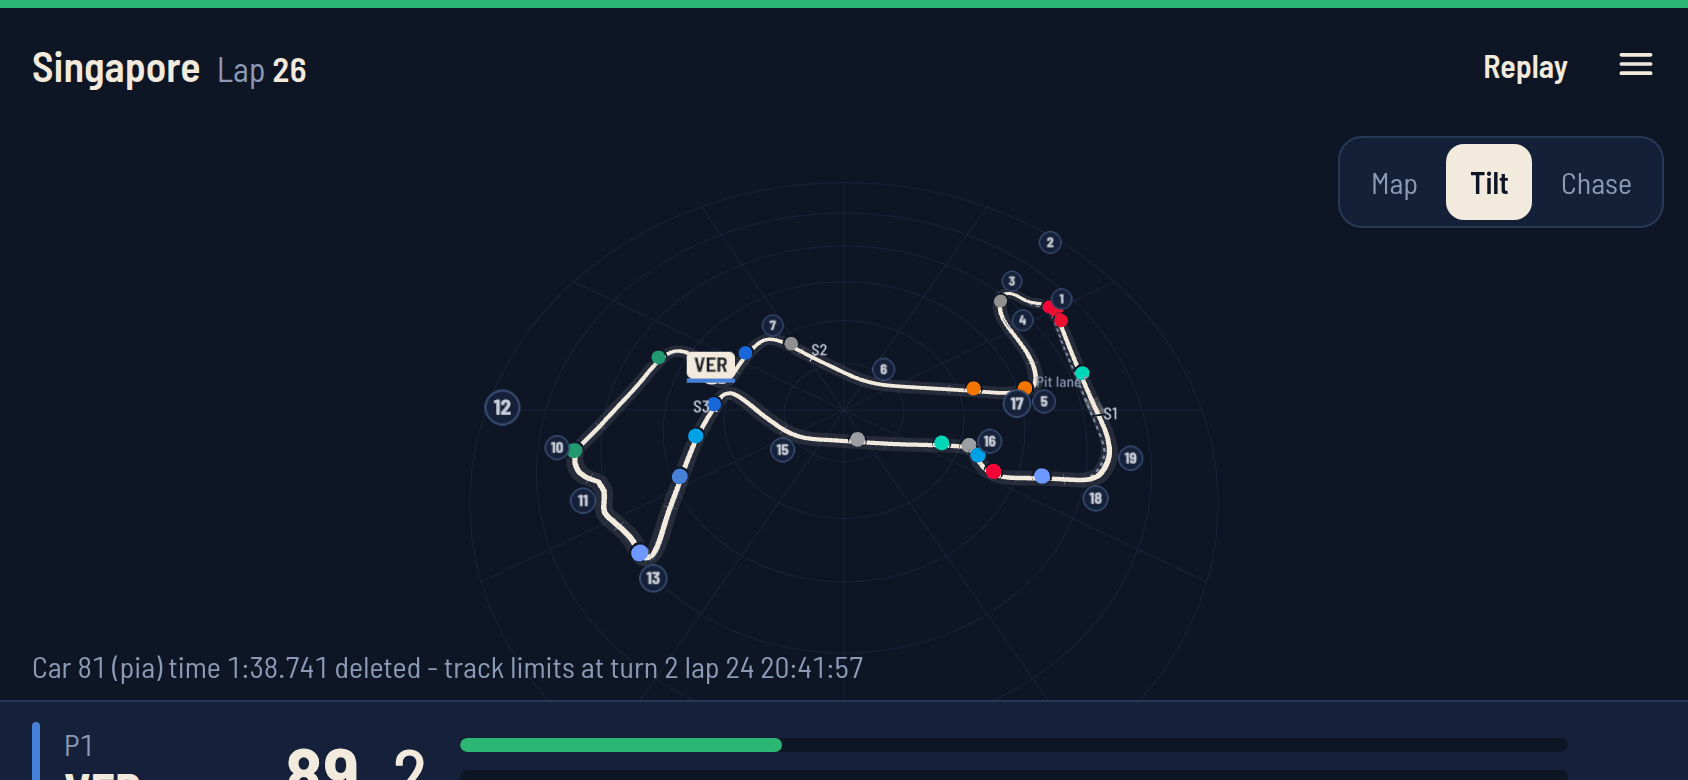
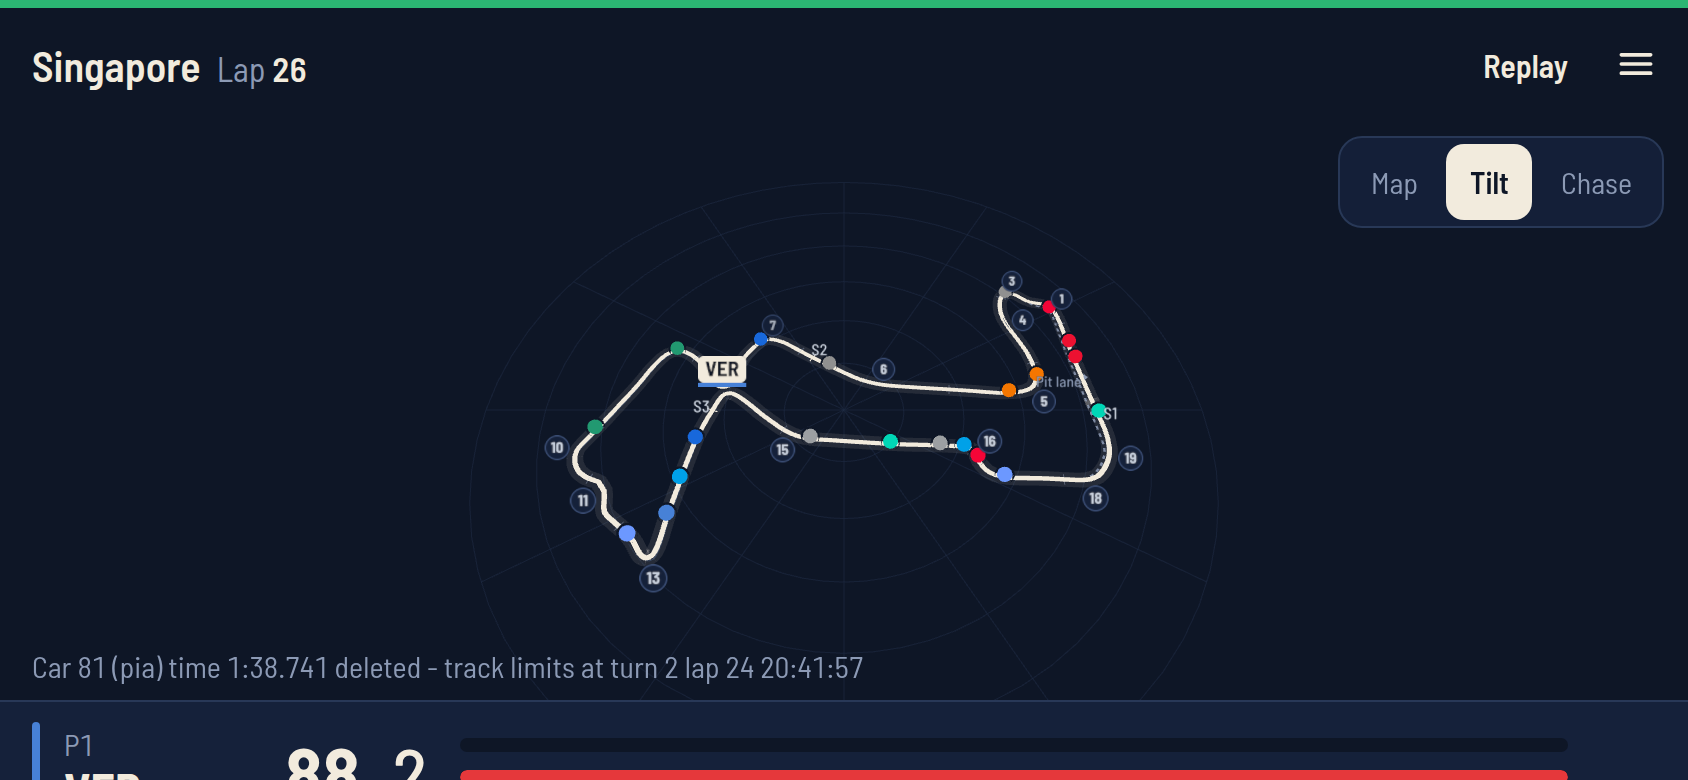
Never move a turn badge: show it on its corner, or not at all
Turn 12 was showing up in an odd spot. Its index was right — 69 units off the
circuit file's own coordinate on a 14,391-unit circuit, in line with its
neighbours — so it was the drawing. Measured at phone size, badge 12's apex
projected to (67, 205) and it was drawn at (24, 144): 61px adrift, nearer turn
10's corner than its own. Badge 2 was pushed 87px and rendered at y=-2, off
the top of the canvas.

The earlier fix stopped badges dodging car labels but left them dodging each
other, and Singapore's hairpin crowds four corners into very little screen.
Capping the shift does not rescue it: two badges only separate once one has
moved its whole height clear of the other, so any shift large enough to work
is already large enough to look detached. A unit test for a capped version
made that plain.

So badges no longer move at all. A badge is drawn exactly on its corner or
dropped, and where several crowd together the topmost wins. Car labels and
the camera group are fixed furniture it gives way to, never the reverse. Every
visible badge is now 0.00px from its own apex, in both orientations.

Fewer show at the default view — 13 to 16 of Singapore's 19 — and that is the
trade being made: a number you can trust, or more numbers you cannot. Zooming
in restores them, 18 of 19 by a modest pinch, because the decision is made
from what is actually on screen.

Also dropped the hysteresis margin from 6px to 2px. It was sized for badges
[…]

diff --git a/apps/web/src/scene/Scene.ts b/apps/web/src/scene/Scene.ts
@@ -23,7 +23,13 @@ import {
   buildYellowOverlays,
   type BadgeSprite,
 } from './detail.js';
-import { labelledDrivers, resolveCollisions, type LabelBox, type Obstacle } from './labels.js';
+import {
+  labelledDrivers,
+  visibleBadges,
+  resolveCollisions,
+  type LabelBox,
+  type Obstacle,
+} from './labels.js';
 import {
   GLOW_HALF_WIDTH,
   PX,
@@ -47,8 +53,14 @@ const BADGE_KEY = -1000;
 /** How quickly a turn badge fades back in once a car label has passed. */
 const BADGE_FADE_PER_S = 6;
 
-/** How far a hidden badge must be clear before it returns, in pixels. */
-const BADGE_UNBLOCK_PAD = 6;
+/**
+ * How far a hidden badge must be clear before it returns, in pixels.
+ *
+ * Small, because the dwell below does most of the steadying. A wide margin
+ * here keeps badges away long after the car has gone, and since they no
+ * longer move aside, one kept out is one not shown at all.
+ */
+const BADGE_UNBLOCK_PAD = 2;
 
 /** How quickly a car label slides to the position the resolver chose. */
 const LABEL_EASE_PER_S = 10;
@@ -56,10 +68,6 @@ const LABEL_EASE_PER_S = 10;
 /** How long a badge must stay clear before it starts coming back, in ms. */
 const BADGE_RETURN_MS = 400;
 
-/** Whether two screen rectangles meet. */
-function overlaps(a: Obstacle, b: Obstacle): boolean {
-  return a.right > b.left && a.left < b.right && a.bottom > b.top && a.top < b.bottom;
-}
 
 /** How the camera sits for each preset, as a direction and a distance factor. */
 const PRESETS: Record<CameraPreset, { dir: THREE.Vector3; fit: number }> = {
@@ -522,32 +530,31 @@ export class Scene {
         priority: 3,
       });
     }
-    const badgeOffsets = resolveCollisions(this.labelBoxes, 2, obstacles);
-    const placed = new Map(this.labelBoxes.map((b) => [b.n, b]));
+    // Badges are never moved, only kept or dropped: one names the corner it
+    // sits beside, so shifting it moves the answer. Car labels and the camera
+    // group are fixed here — a badge gives way to both, never the reverse.
+    //
+    // Hysteresis: a hidden badge is measured a little larger, so it has to be
+    // clear by a margin before it returns and a car label sliding along its
+    // edge cannot toggle it frame by frame.
+    const padded = this.labelBoxes.map((box) => {
+      const b = this.badges[BADGE_KEY - box.n];
+      if (!b || b.fade > 0.02) return box;
+      return { ...box, width: box.width + BADGE_UNBLOCK_PAD * 2, height: box.height + BADGE_UNBLOCK_PAD * 2 };
+    });
+    const shown = visibleBadges(padded, [...labelBoxes, ...obstacles]);
 
-    for (const [n, dyPx] of badgeOffsets) {
-      const b = this.badges[BADGE_KEY - n];
-      const box = placed.get(n);
-      if (!b || !box) continue;
-      b.sprite.position.copy(b.base).setY(b.base.y + this.worldLiftForScreenOffset(b.base, dyPx, r.height));
+    for (const box of this.labelBoxes) {
+      const b = this.badges[BADGE_KEY - box.n];
+      if (!b) continue;
+      // Always exactly on its corner. The only question is whether it is drawn.
+      b.sprite.position.copy(b.base);
 
-      // Fade for anything it could not be placed clear of: a car label, which
-      // it is not allowed to dodge, or the camera group when there was nowhere
-      // above it to go. A car label and a camera control are both worth more
-      // than a turn number, and a badge shoved off its corner names nothing.
-      // Hysteresis: a hidden badge has to be clear by a margin before it comes
-      // back, so a car label sliding along its edge cannot toggle it frame by
-      // frame. Without this a badge by the racing line blinks several times a
-      // second as a label creeps past.
-      const pad = b.fade > 0.02 ? 0 : BADGE_UNBLOCK_PAD;
-      const rect = this.rectAfter(box, dyPx, pad);
-      const blocked =
-        labelBoxes.some((l) => overlaps(rect, l)) || obstacles.some((o) => overlaps(rect, o));
       // Out at once, back in gently. Going instantly means a badge never
       // actually sits over a car label, and the abrupt half of the change is
       // the one nobody notices — the car label arriving is the eye's event.
       // Easing the return is what stops a badge flickering as cars stream by.
-      if (blocked) {
+      if (!shown.has(box.n)) {
         b.clearSince = 0;
         b.fade = 0;
       } else {
@@ -567,12 +574,12 @@ export class Scene {
   }
 
   /** A laid-out box as a screen rectangle, once its offset is applied. */
-  private rectAfter(box: LabelBox, dyPx: number, pad = 0): Obstacle {
+  private rectAfter(box: LabelBox, dyPx: number): Obstacle {
     return {
-      left: box.x - box.width / 2 - pad,
-      right: box.x + box.width / 2 + pad,
-      top: box.y - box.height / 2 + dyPx - pad,
-      bottom: box.y + box.height / 2 + dyPx + pad,
+      left: box.x - box.width / 2,
+      right: box.x + box.width / 2,
+      top: box.y - box.height / 2 + dyPx,
+      bottom: box.y + box.height / 2 + dyPx,
     };
   }
 

diff --git a/apps/web/test/labels.test.ts b/apps/web/test/labels.test.ts
@@ -2,7 +2,7 @@
 
 import { describe, expect, it } from 'vitest';
 import type { TowerRow } from '@lapline/shared';
-import { labelledDrivers, resolveCollisions, type LabelBox } from '../src/scene/labels.js';
+import { labelledDrivers, resolveCollisions, type LabelBox, visibleBadges, type Obstacle } from '../src/scene/labels.js';
 
 const row = (n: number, p: number | null, gap: number | string | null): TowerRow => ({
   n,
@@ -205,5 +205,54 @@ describe('resolveCollisions, keeping positions between frames', () => {
     const withNone = resolveCollisions([box(1, 100, 0), box(2, 100, 2)], 2);
     const withEmpty = resolveCollisions([box(1, 100, 0), box(2, 100, 2)], 2, [], new Map());
     expect([...withEmpty]).toEqual([...withNone]);
+  });
+});
+
+describe('visibleBadges', () => {
+  const badge = (n: number, y: number, x = 100): LabelBox => ({
+    n,
+    x,
+    y,
+    width: 17,
+    height: 17,
+    priority: 3,
+  });
+
+  it('shows every badge when nothing is in the way', () => {
+    expect(visibleBadges([badge(1, 50), badge(2, 150)], [])).toEqual(new Set([1, 2]));
+  });
+
+  it('drops the lower of two that overlap rather than moving either', () => {
+    // This is what put turn 12 in the wrong place: it was being shifted 61px
+    // off its apex to dodge its neighbours.
+    const shown = visibleBadges([badge(1, 100), badge(2, 110)], []);
+    expect(shown).toEqual(new Set([1]));
+  });
+
+  it('keeps only one where several crowd a hairpin', () => {
+    const shown = visibleBadges([badge(1, 100), badge(2, 104), badge(3, 108)], []);
+    expect(shown.size).toBe(1);
+  });
+
+  it('gives way to a car label instead of displacing it', () => {
+    const label: Obstacle = { top: 92, bottom: 108, left: 80, right: 120 };
+    expect(visibleBadges([badge(1, 100)], [label])).toEqual(new Set());
+  });
+
+  it('leaves badges elsewhere on the circuit alone', () => {
+    const label: Obstacle = { top: 92, bottom: 108, left: 80, right: 120 };
+    expect(visibleBadges([badge(1, 100), badge(2, 250, 300)], [label])).toEqual(new Set([2]));
+  });
+
+  it('picks the same badges whatever order they arrive in, so none flicker', () => {
+    const boxes = [badge(3, 100), badge(1, 104), badge(2, 108)];
+    const a = visibleBadges(boxes, []);
+    const b = visibleBadges([...boxes].reverse(), []);
+    expect([...a]).toEqual([...b]);
+  });
+
+  it('keeps badges that only touch at the edges', () => {
+    // Exactly adjacent, not overlapping: both are legible, so both stay.
+    expect(visibleBadges([badge(1, 100), badge(2, 117)], []).size).toBe(2);
   });
 });

diff --git a/apps/web/src/scene/labels.ts b/apps/web/src/scene/labels.ts
@@ -143,3 +143,43 @@ export function resolveCollisions(
   return offsets;
 }
 
+
+/**
+ * Which turn badges can be drawn where they belong.
+ *
+ * A badge is never moved. It names the corner it sits beside, so shifting it
+ * does not tidy the view, it moves the answer — at Singapore a badge was being
+ * pushed 61px off its apex and landed nearer the next corner's, and another
+ * went clean off the top of the canvas. Nor is a small shift a way out: two
+ * badges only separate once one has moved its whole height clear of the other,
+ * which is already far enough to look detached.
+ *
+ * So a badge is either on its corner or not shown. Where several crowd
+ * together, the topmost wins and the rest are dropped, which at phone size
+ * says more than three overlapping numbers would. `fixed` holds what a badge
+ * must give way to and never displaces: car labels and the camera group.
+ */
+export function visibleBadges(
+  boxes: readonly LabelBox[],
+  fixed: readonly Obstacle[],
+): Set<number> {
+  const shown = new Set<number>();
+  const placed: Obstacle[] = [...fixed];
+
+  // Topmost first, so the same badges survive every frame. Badges do not move
+  // unless the camera does, so this order is stable.
+  for (const b of [...boxes].sort((a, c) => a.y - c.y || a.n - c.n)) {
+    const r = {
+      top: b.y - b.height / 2,
+      bottom: b.y + b.height / 2,
+      left: b.x - b.width / 2,
+      right: b.x + b.width / 2,
+    };
+    if (placed.some((p) => r.right > p.left && r.left < p.right && r.bottom > p.top && r.top < p.bottom)) {
+      continue;
+    }
+    placed.push(r);
+    shown.add(b.n);
+  }
+  return shown;
+}
